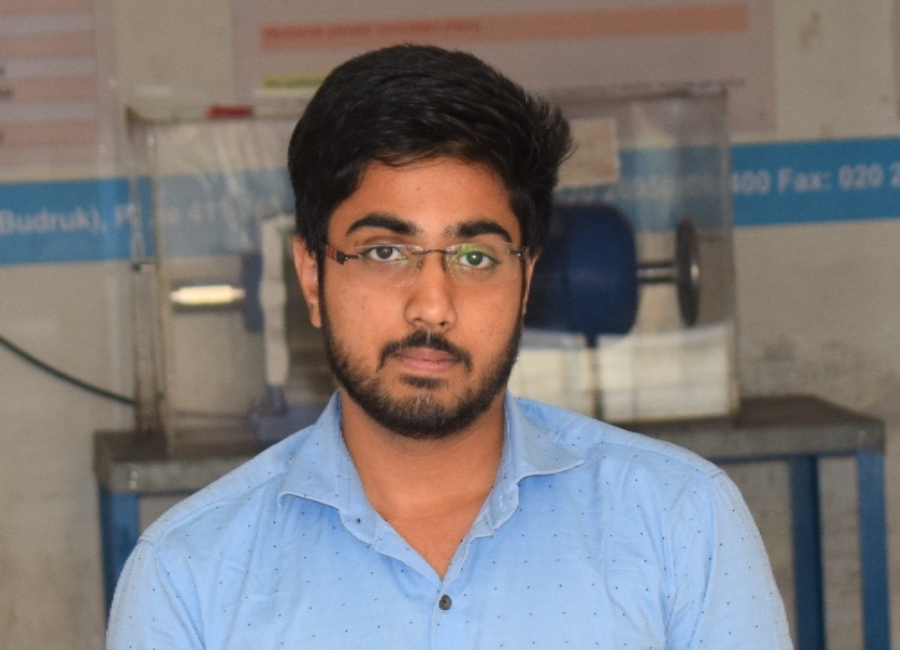
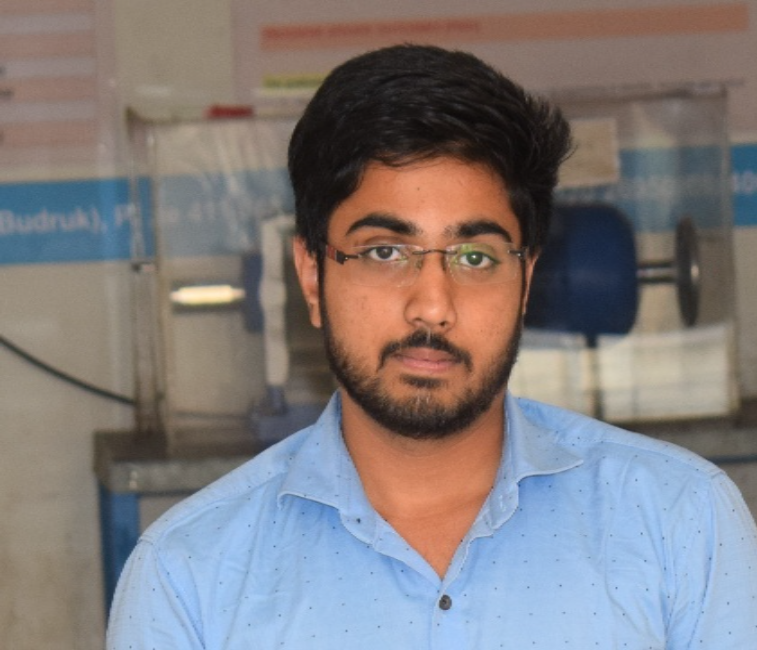
feat :[Website]: Image added to website

diff --git a/assets/css/main.css b/assets/css/main.css
@@ -1490,7 +1490,7 @@
 	img {
 	    display: block;
 	    margin: auto;
-	    height: 155%;
+	    height: 100%;
 	    width: auto;
 	}
 
@@ -2822,7 +2822,7 @@
 		}
 
 		.wrapper.style3 {
-			background-color: rgba(132, 165, 201, 0.13);
+			background-color: rgba(141, 161, 180, 0.13);
 			color: #d3d4e4;
 		}
 
@@ -3183,7 +3183,7 @@
 		-ms-transition: -ms-transform 0.5s ease;
 		transition: transform 0.5s ease;
 		-webkit-overflow-scrolling: touch;
-		background: rgba(132, 165, 201, 0.13);
+		background: rgba(141, 161, 180, 0.13);
 		color: #ffffff;
 		height: 100%;
 		max-width: 80%;

diff --git a/index.html b/index.html
@@ -84,7 +84,7 @@
 				<!-- </ul>  -->
 
 			</div>
-			<div class="image-cropper"> <img src="images/cover3.png" align="middle"/></div>
+			<div class="image-cropper"> <img src="images/cover3.png" align="right"/></div>
 		</section>
 
 		<section id="resume" class="wrapper style3 special">
